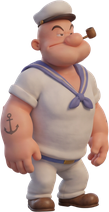
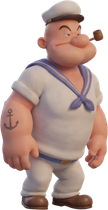
v0.11: idle ayak vurma sesi, idle2/3 saga egim, dusme boyutu kucuk
Claude-Session: https://claude.ai/code/session_017AaaMCeVHMkA1CeuVEH2QL

diff --git a/www/js/game.js b/www/js/game.js
@@ -43,7 +43,8 @@ const SPRITELAR = [
 const SESLER = [
   "ses_pompa", "ses_sisme", "ses_sonme", "ses_yengec_pop", "ses_ahtapot_pop",
   "ses_kum_kazma", "ses_kapak", "ses_adim1", "ses_adim2", "ses_adim3",
-  "ses_dusme", "ses_dustu", "ses_kum_dokul", "ses_kum_dok", "ses_olme", "ses_kazandi"
+  "ses_dusme", "ses_dustu", "ses_kum_dokul", "ses_kum_dok", "ses_olme", "ses_kazandi",
+  "ses_ayak_vur"
 ];
 
 const DUSMAN_TIP = {
@@ -655,6 +656,7 @@ class Oyun extends Phaser.Scene {
         const minB = sabirsiz ? IDLE_SABIRSIZ_MIN : IDLE_BEKLEME_MIN;
         const maxB = sabirsiz ? IDLE_SABIRSIZ_MAX : IDLE_BEKLEME_MAX;
         r.idleDegisim = zaman + Phaser.Math.Between(minB, maxB);
+        if (sabirsiz) this.ses("ses_ayak_vur", { volume: 0.8 });
       }
       if (sabirsiz) {
         tex = r.idlePoz === 0 ? "reis_idle2" : "reis_idle3";
@@ -685,8 +687,8 @@ class Oyun extends Phaser.Scene {
     if (this.dokunulmaz > 0) { this.dokunulmaz -= dt; r.spr.setAlpha(Math.floor(zaman / 100) % 2 ? 0.4 : 1); }
     else r.spr.setAlpha(1);
 
-    if (havada) r.spr.setOrigin(0.5, 0.5).setTexture(tex).setFlipX(r.yon > 0).setPosition(r.x, r.y - 58);
-    else r.spr.setOrigin(0.5, 1).setTexture(tex).setFlipX(r.yon < 0).setPosition(r.x, r.y);
+    if (havada) r.spr.setOrigin(0.5, 0.5).setTexture(tex).setFlipX(r.yon > 0).setScale(REIS_OLCEK * 0.85).setPosition(r.x, r.y - 58);
+    else r.spr.setOrigin(0.5, 1).setTexture(tex).setFlipX(r.yon < 0).setScale(REIS_OLCEK).setPosition(r.x, r.y);
 
     // Pompa hortumu: pompanın alt ucundan çıkar, yerde kıvrılarak düşmana gider
     const h = this.pompaHedef;

diff --git a/www/js/config.js b/www/js/config.js
@@ -1,7 +1,7 @@
 // Oyunun tüm ayarları burada. AdMob ID'lerini buraya yaz.
 window.OYUN_CONFIG = {
   oyunAdi: "DigPopeyeDug",
-  surum: "v0.10", // sağ altta görünür
+  surum: "v0.11", // sağ altta görünür
   paketAdi: "com.jawk.digpopeyedug", // Play Store'a yüklendikten sonra DEĞİŞTİRİLEMEZ
 
   reklam: {
